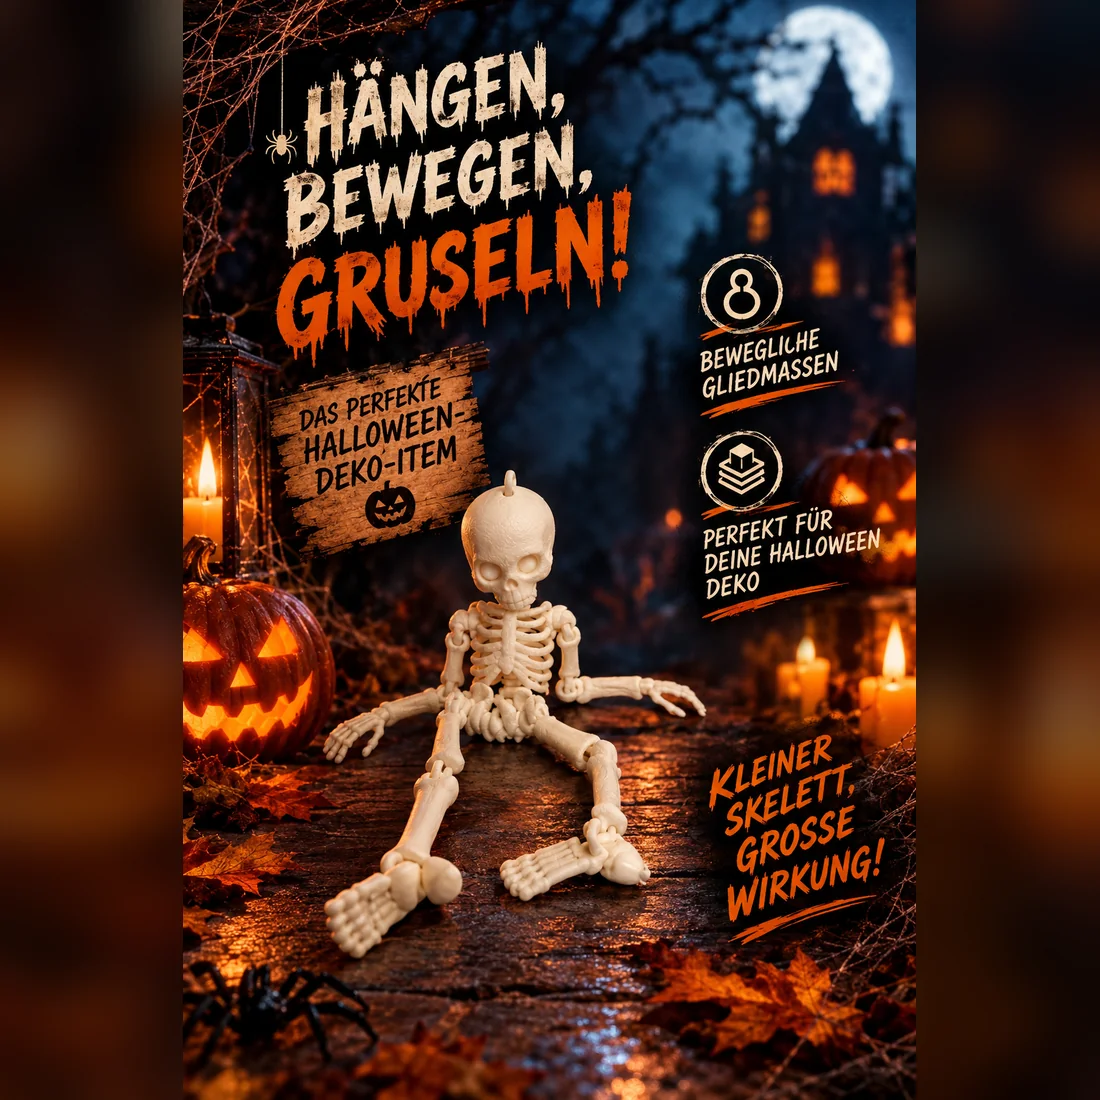
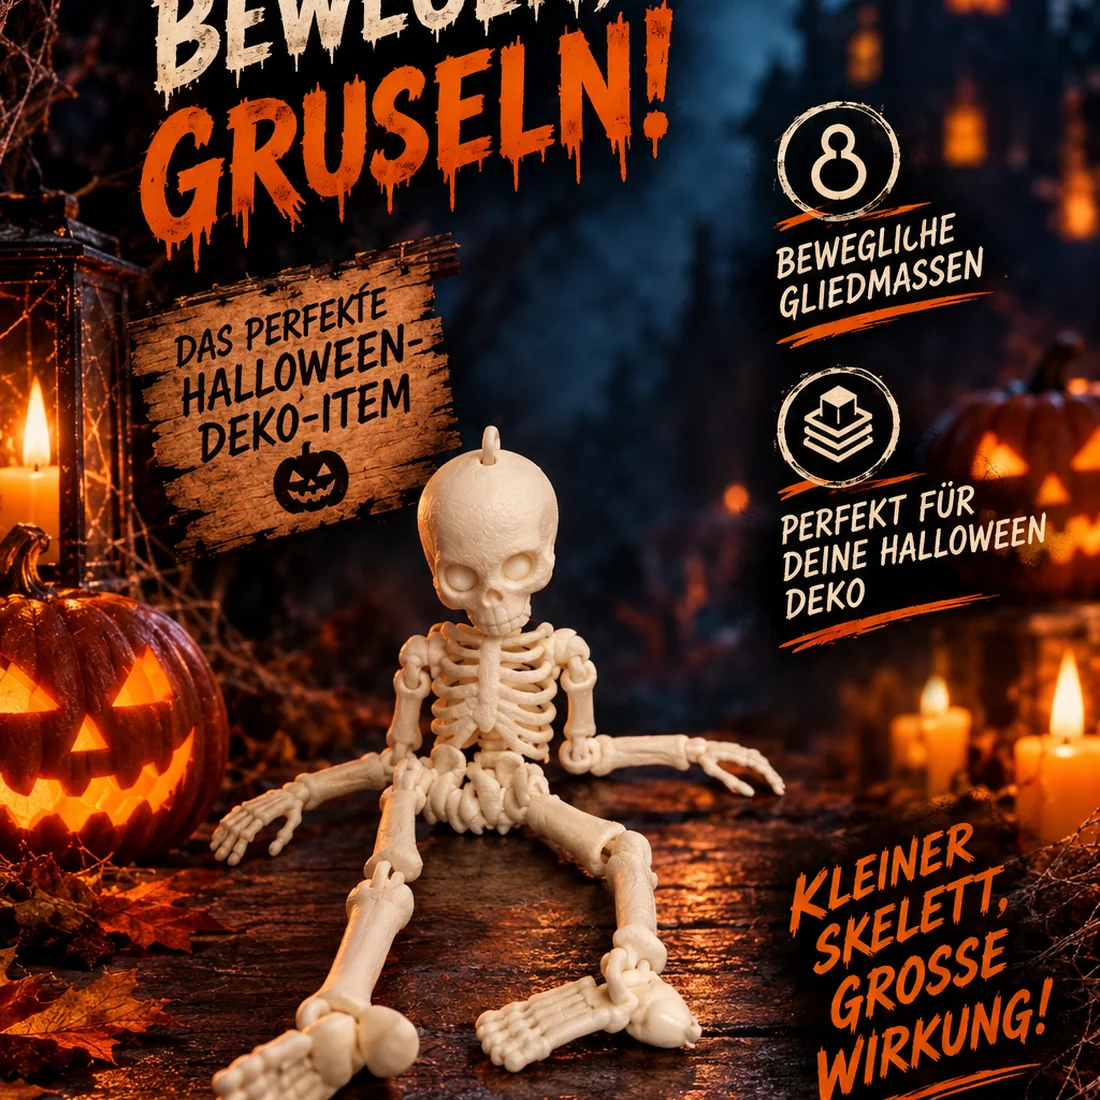
Skelett: beide Detailbilder quadratisch zugeschnitten statt mit unscharfem Rand
Claude-Session: https://claude.ai/code/session_01J3XNNkixmMVkzjtWsont1N

diff --git a/lib/shop/fotos.ts b/lib/shop/fotos.ts
@@ -45,7 +45,7 @@ const ALT: Record<string, string[]> = {
     "Kürbis mit Gesicht, orange mit schwarzem Stiel, Premium LED Halloween-Licht",
     "Leuchtender 3D-Druck-Kürbis im Mondlicht mit LED-Teelicht",
   ],
-  // Titelbild (Cover) zuerst, dann 4.webp (hängend im Halloween-Look) und 5.webp (sitzend im Halloween-Zauber), beide Hochformat mit unscharfem Rand auf Quadrat gesetzt
+  // Titelbild (Cover) zuerst, dann 4.webp (hängend im Halloween-Look) und 5.webp (sitzend im Halloween-Zauber), beide Hochformat, quadratisch zugeschnitten
   "skelett-beweglich": [
     "Bewegliches Skelett hängt an einer Schnur vor Halloween-Kulisse (gestaltetes Bild)",
     "Bewegliches Skelett sitzt zwischen Kürbissen und Kerzen (gestaltetes Bild)",
